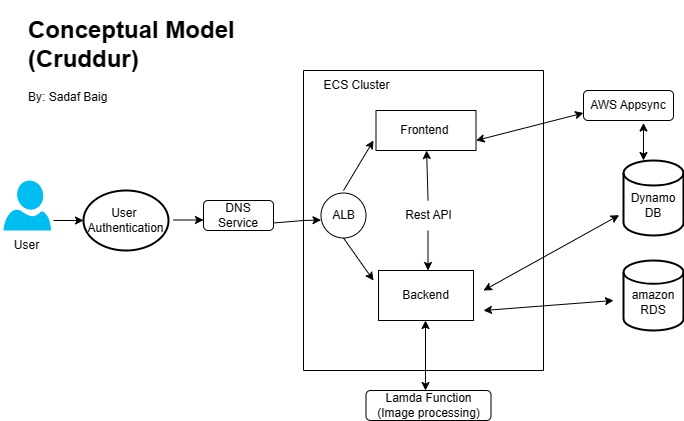
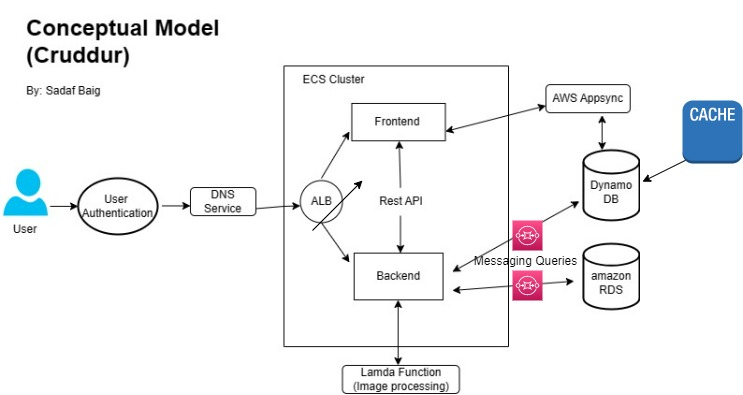
Week 0 Homework

diff --git a/journal/week0.md b/journal/week0.md
@@ -29,9 +29,9 @@ Run commands on AWS Cloudeshell here is the screenshot.
 
 ## Task 6
 
-Here is the link of Logical Diagram of Cruddur from lucid chart:
-So,in free trial of lucid chart I ran out of shapes so wasnot able to complete the full diagram.
-
+Here is the link of Logical Diagram of Cruddur from lucid chart.
 https://lucid.app/lucidchart/9b723750-aeae-4b57-aefe-68595e906230/edit?viewport_loc=351%2C100%2C1304%2C617%2C0_0&invitationId=inv_a9e0bc1e-c3a9-4346-bc87-0bc9ac2812ab
 
-![CloudShell](week0_images/LogicalDiagram.png)
+So,in free trial of lucid chart, I ran out of shapes so wasnot able to continue, half diagram created through draw.io.I am adding the image of complete diagram here which I created.
+
+![CloudShell](week0_images/LogicalDiagram.jpg)
